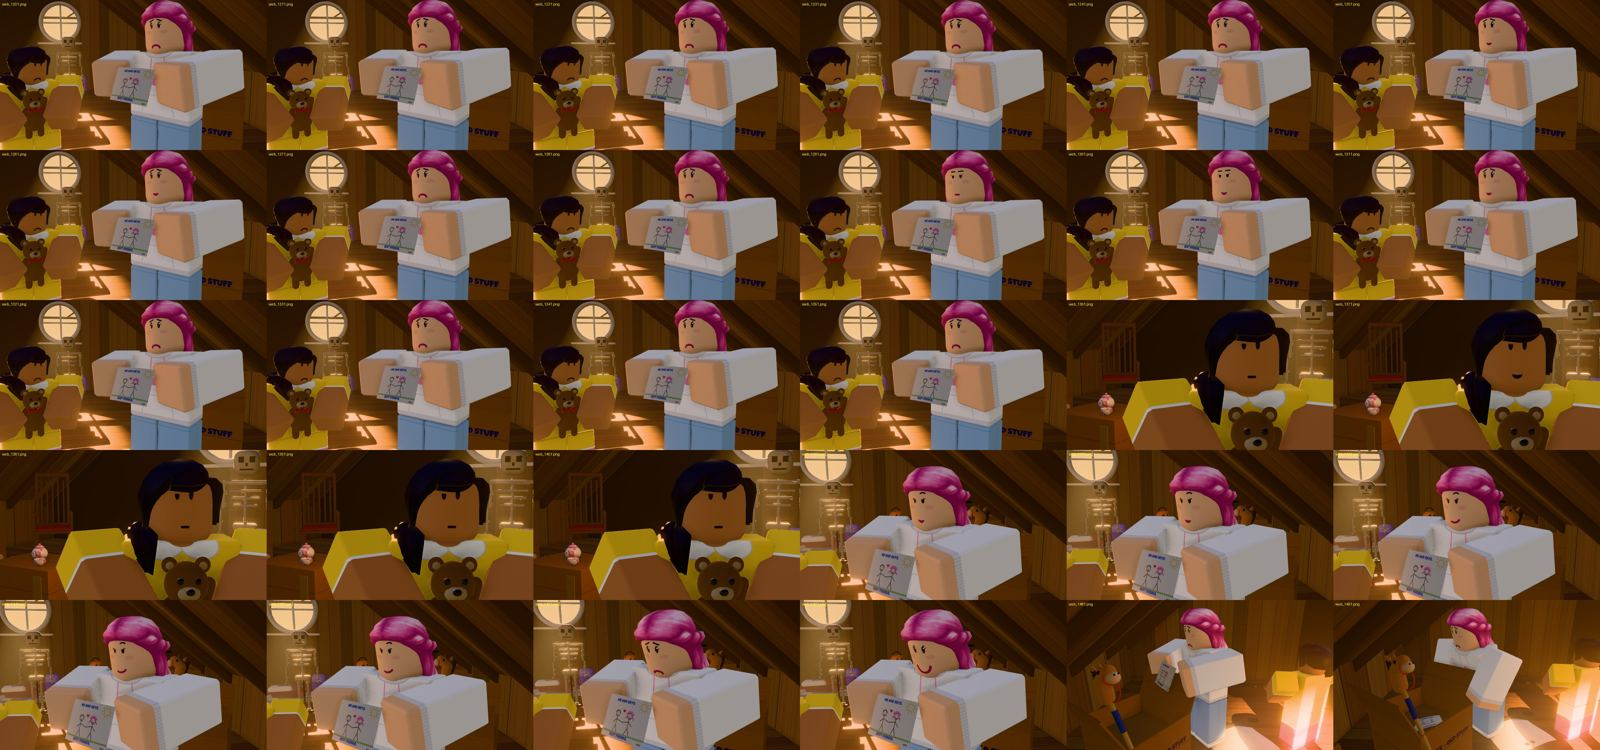
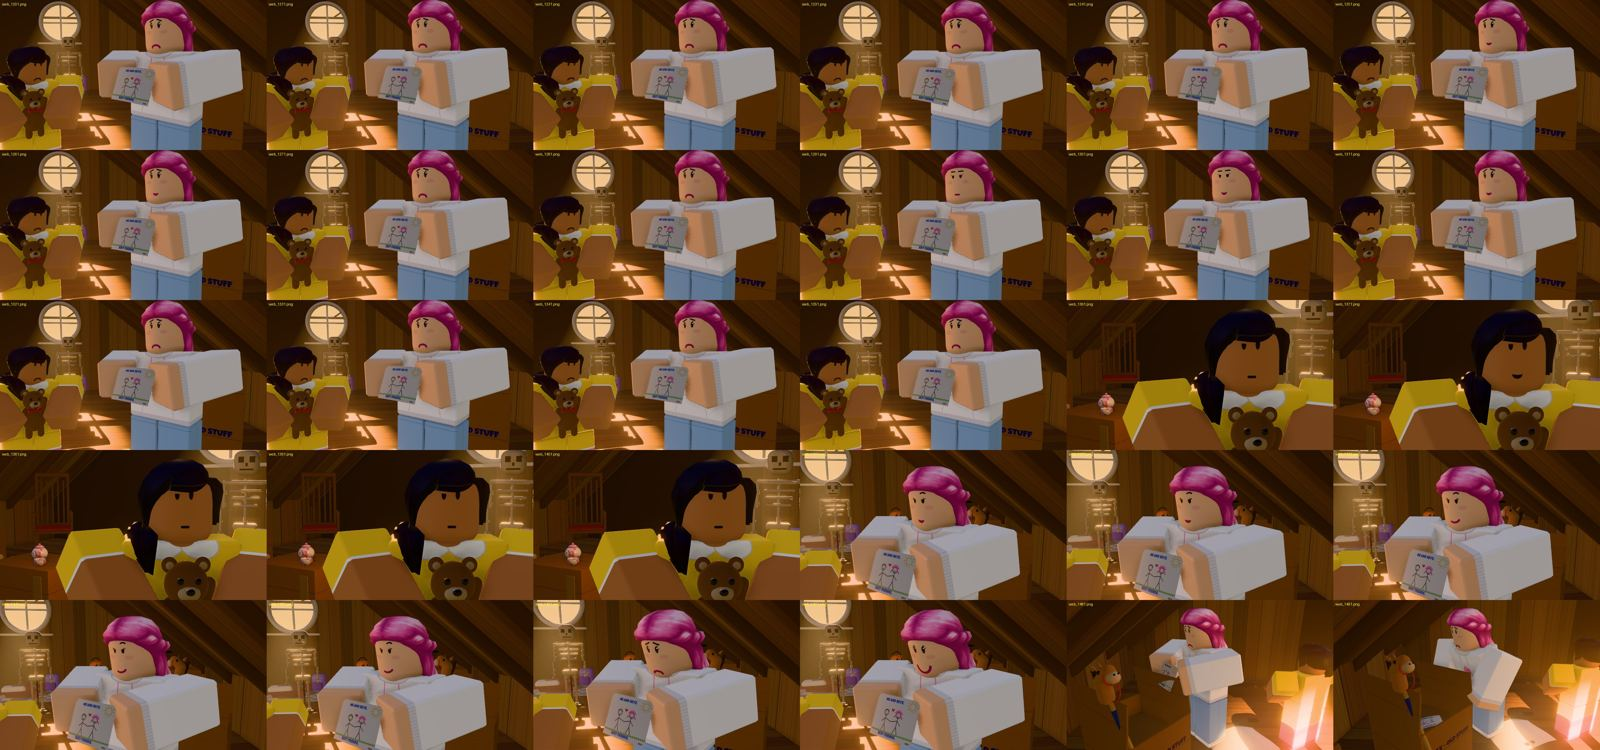
ch09: critic-5 plausibility fixes complete (kit freeze), clip_check/cam_check clean, proof previews

diff --git a/roblox-shorts-studio/projects/i-secretly-lived-in-my-enemys-house/web/ch09.js b/roblox-shorts-studio/projects/i-secretly-lived-in-my-enemys-house/web/ch09.js
@@ -81,7 +81,7 @@ const M = {
 const towardXZ = (from, to) => Math.atan2(to.x - from.x, to.z - from.z);
 const SKYE_OPEN = -0.75, LILY_OPEN = 0.5;  // box scene: facing each other, opened to the +z side (camera, hatch)
 // box-scene cameras (attic local coords): the two-shot from the hatch side, and the walk/put-back angle
-const BOXCAM = { pos: V(5.8, 4.5, 12.4).add(OFF), target: V(6.5, 3.4, 5.6).add(OFF), fov: 40 };
+const BOXCAM = { pos: V(4.8, 4.6, 13.0).add(OFF), target: V(5.3, 3.4, 5.9).add(OFF), fov: 44 };
 const NESTCAM = { pos: V(-3.0, 4.4, 5.6).add(OFF), target: V(-3.7, 2.0, -5.4).add(OFF), fov: 50 };
 // where the drawing is: between Skye's hands (props may not have landed yet)
 function handsMid(a) { const l = a.bones['Arm.L'].localToWorld(V(0.5 * a.scale, -1.8 * a.scale, 0)), r = a.bones['Arm.R'].localToWorld(V(-0.5 * a.scale, -1.8 * a.scale, 0)); return l.lerp(r, 0.5); }
@@ -136,7 +136,7 @@ let ROCK = 0;
 const ARMS = (a, l, r = [l[0], -l[1], -l[2]]) => K.posture(a, { 'Arm.L': l, 'Arm.R': r }, { reset: false });
 const mixArm = (p, q, u) => p.map((v, i) => v + (q[i] - v) * u);
 const LILY_HUG = globalThis.LH ?? [-48, 34, 0];   // both forearms round the teddy on her chest
-const CHEST = [-80, 24, 0], WAIST = [-38, 20, 0], DOWN = [-6, 0, -4], BOX_REACH = [-38, 14, 0], FLAPS = [-55, 4, 0];
+const CHEST = [-80, 32, 0], /* = cast.js hold_paper */ WAIST = [-38, 20, 0], DOWN = [-6, 0, -4], BOX_REACH = [-38, 14, 0], FLAPS = [-55, 4, 0];
 const SHEET_CHEST = [-84, -8, 0], SHEET_CHIN = [-104, -10, 0], LAP_L = [-34, 30, 0], LAP_R = [-34, -34, 0];
 // the drawing lying on top of the contents of MAX - OLD STUFF, art up, its top towards the insert camera's "up"
 const BOX_TOP = V(9.2, 1.25, 4.6).add(OFF), BOX_UPDIR = V(-0.24, 0, -0.97).normalize();
@@ -185,7 +185,7 @@ function skyeAt(s, idle) {
     if (bend) K.posture(sk, 'hip_bend', { reset: false, mix: 0.5 * bend });   // a half bend: the open flap is right in front of her
     ARMS(sk, arms);
     st.face = s >= T.pick ? 'surprised' : 'determined';
-    if (s >= T.pick + 0.15) { K.putOn(sk, { pos: to.pos, heading: lerpAng(to.heading, SKYE_OPEN, smooth(inv(T.pick + 0.3, T.pick + 0.7, s))) }); }
+    if (s >= T.pick + 0.15) { K.putOn(sk, { pos: to.pos, heading: lerpAng(to.heading, SKYE_OPEN, smooth(inv(T.pick + 0.4, T.pick + 0.7, s))) }); }   // lift clear of the flaps first, then turn to Lily
     return st;
   }
   // at the box, turned half to Lily (and the lens), the drawing at her chest in both hands
@@ -209,7 +209,7 @@ function skyeAt(s, idle) {
     st.face = s < T.back - 0.2 ? 'sad' : 'happy'; look = 0.38;
     if (s >= T.back) {
       look = 0.2; st.face = 'sad';
-      h = lerpAng(SKYE_OPEN, box.heading, smooth(inv(T.back, T.back + 0.25, s)));
+      h = lerpAng(SKYE_OPEN, box.heading, smooth(inv(T.back, T.back + 0.16, s)));
       const u = smooth(inv(T.back + 0.2, T.contact, s)), w = smooth(inv(T.backDone + 0.05, T.backDone + 0.35, s));
       arms = mixArm(mixArm(CHEST, BOX_REACH, u), DOWN, w); K.posture(sk, 'hip_bend', { reset: false, mix: 0.5 * u * (1 - w) });
       st.down = u; st.drawing = s < T.contact ? 'hands' : s < T.backDone ? 'contact' : 'box';
@@ -336,7 +336,7 @@ const SHOTS = [
   { line: 7, off: 0, at: () => wordAt(7, 3) - 0.05, id: 'skye_walk', cam: FIX(BOXCAM) },
   { line: 7, off: 0, at: () => T.lidOpen + 0.3, id: 'box_insert', cam: FIX(INSERT) },   // the flaps open: the drawing on top
   { line: 7, off: 0, at: () => T.pick - 0.35, id: 'pick_side', cam: SIDE },
-  { line: 8, off: 0, at: () => T.pick + 0.4, id: 'skye_what', cam: front('skye', { heading: SKYE_OPEN, ang: 0.6, d: 6.2, look: -0.9 }) },
+  { line: 8, off: 0, at: () => T.pick + 0.42, id: 'skye_what', cam: front('skye', { heading: SKYE_OPEN, ang: 0.6, d: 6.2, look: -0.9 }) },
   { line: 9, off: 0, id: 'drawing_cu', cam: (s) => { const r = C.skye.root.position, h = C.skye.root.rotation.y, f = V(Math.sin(h), 0, Math.cos(h)); const m = handsMid(C.skye); K.setCam(s, { pos: m.clone().addScaledVector(f, 2.4).add(V(0, 1.6, 0)), target: m.clone().add(V(0, 0.25, 0)), fov: 34 }, { clear: false }); } },
   { line: 9, off: 0, at: () => SPELL - 0.1, id: 'skye_spelled', cam: front('skye', { heading: SKYE_OPEN, ang: 0.6, d: 5.8, look: -0.75 }) },
   { line: 10, off: 0, id: 'lily_kinder', cam: LILY_BOX },
@@ -346,7 +346,7 @@ const SHOTS = [
   { line: 14, off: 0, id: 'lily_seven', cam: LILY_BOX },
   { line: 15, off: 0, id: 'skye_good', cam: front('skye', { heading: SKYE_OPEN, ang: 0.6, d: 5.8, look: -0.75 }) },
   { line: 15, off: 0, at: () => endOf(15, 0.05), id: 'look_cu', cam: front('skye', { heading: SKYE_OPEN, ang: 0.6, d: 5.6, look: -0.85 }) },
-  { line: 15, off: 0, at: () => T.back, id: 'put_side', cam: SIDE },
+  { line: 15, off: 0, at: () => T.back + 0.17, id: 'put_side', cam: SIDE },
   { line: 15, off: 0, at: () => T.backDone + 0.3, id: 'put_back', cam: FIX(INSERT_WIDE) },   // insert: the drawing back on top, the lid
   { line: 16, off: 0.6, id: 'lily_still', cam: LILY_BOX },
   { line: 17, off: -0.05, id: 'skye_yes', cam: front('skye', { heading: SKYE_OPEN, ang: 0.6, d: 6.2, look: -0.8 }) },
@@ -360,7 +360,7 @@ let OVL = {};
 export function update(t, stage) {
   const sh = shotAt(t);
   const set = K.showSet('attic');
-  const lid = t < T.lidOpen ? 0 : t < T.lidOpened ? smooth(inv(T.lidOpen, T.lidOpened, t)) : t < T.lidClose ? 1 : 1 - smooth(inv(T.lidClose, T.lidClosed, t));
+  const lid = 0.72 * (t < T.lidOpen ? 0 : t < T.lidOpened ? smooth(inv(T.lidOpen, T.lidOpened, t)) : t < T.lidClose ? 1 : 1 - smooth(inv(T.lidClose, T.lidClosed, t)));   // flaps stand up, so her hands reach in between them
   K.applyLight(stage, 'attic_afternoon', { set });
   K.setBlockers(set.group, C.skye, C.lily);
   K.setLine(C.lily, C.skye, 1);
